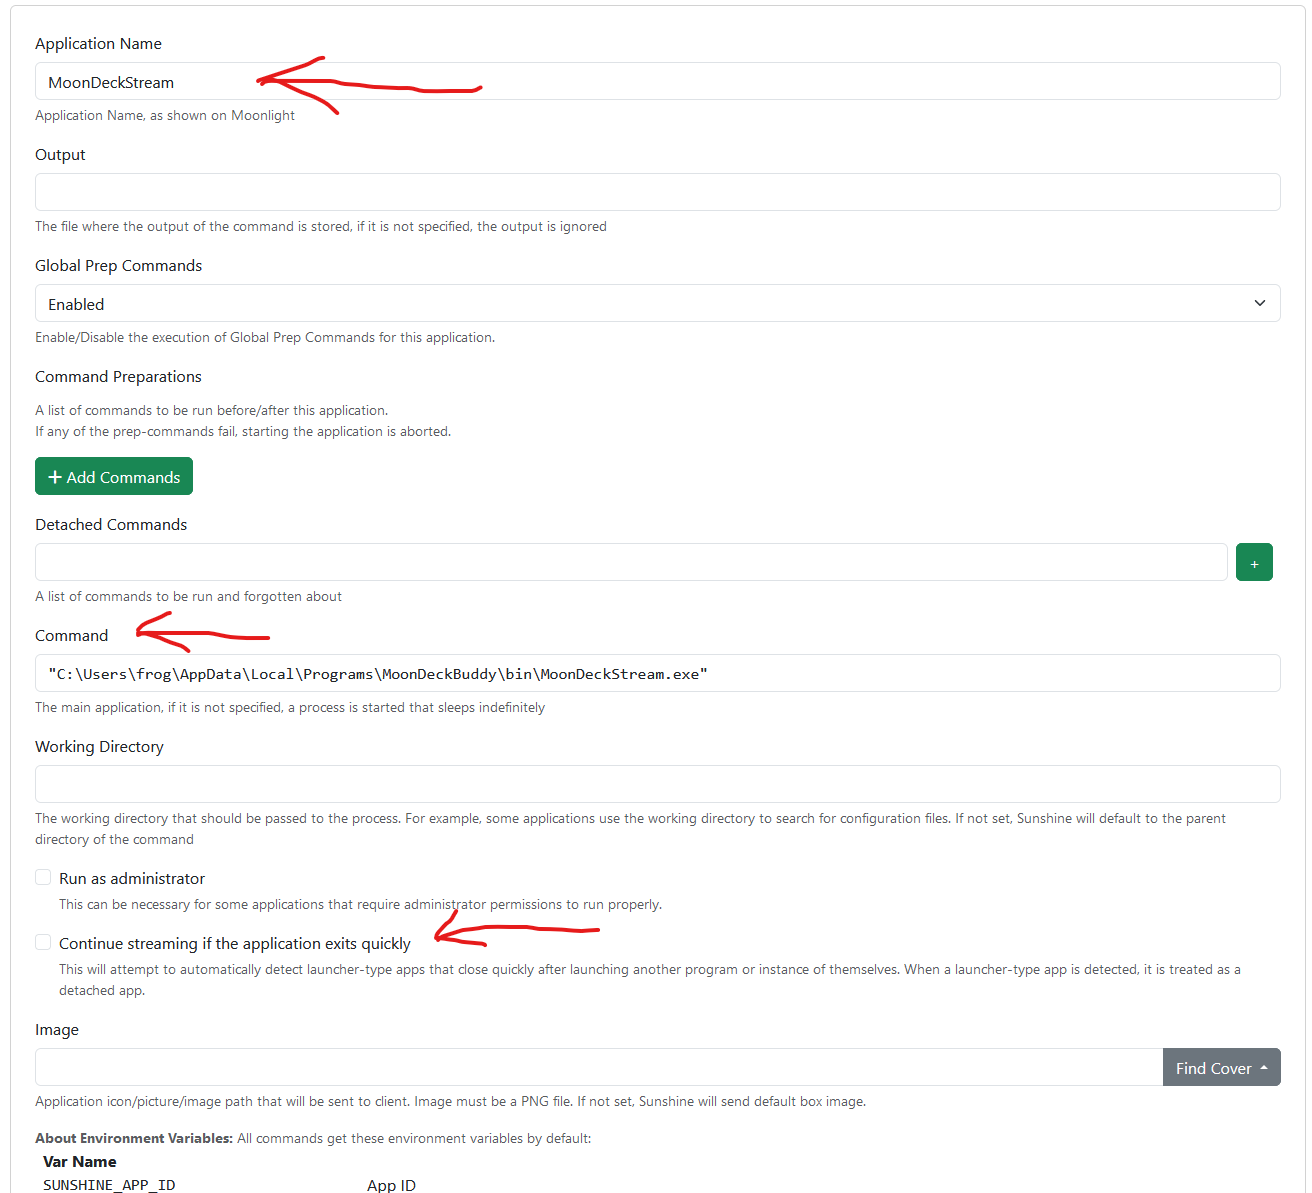
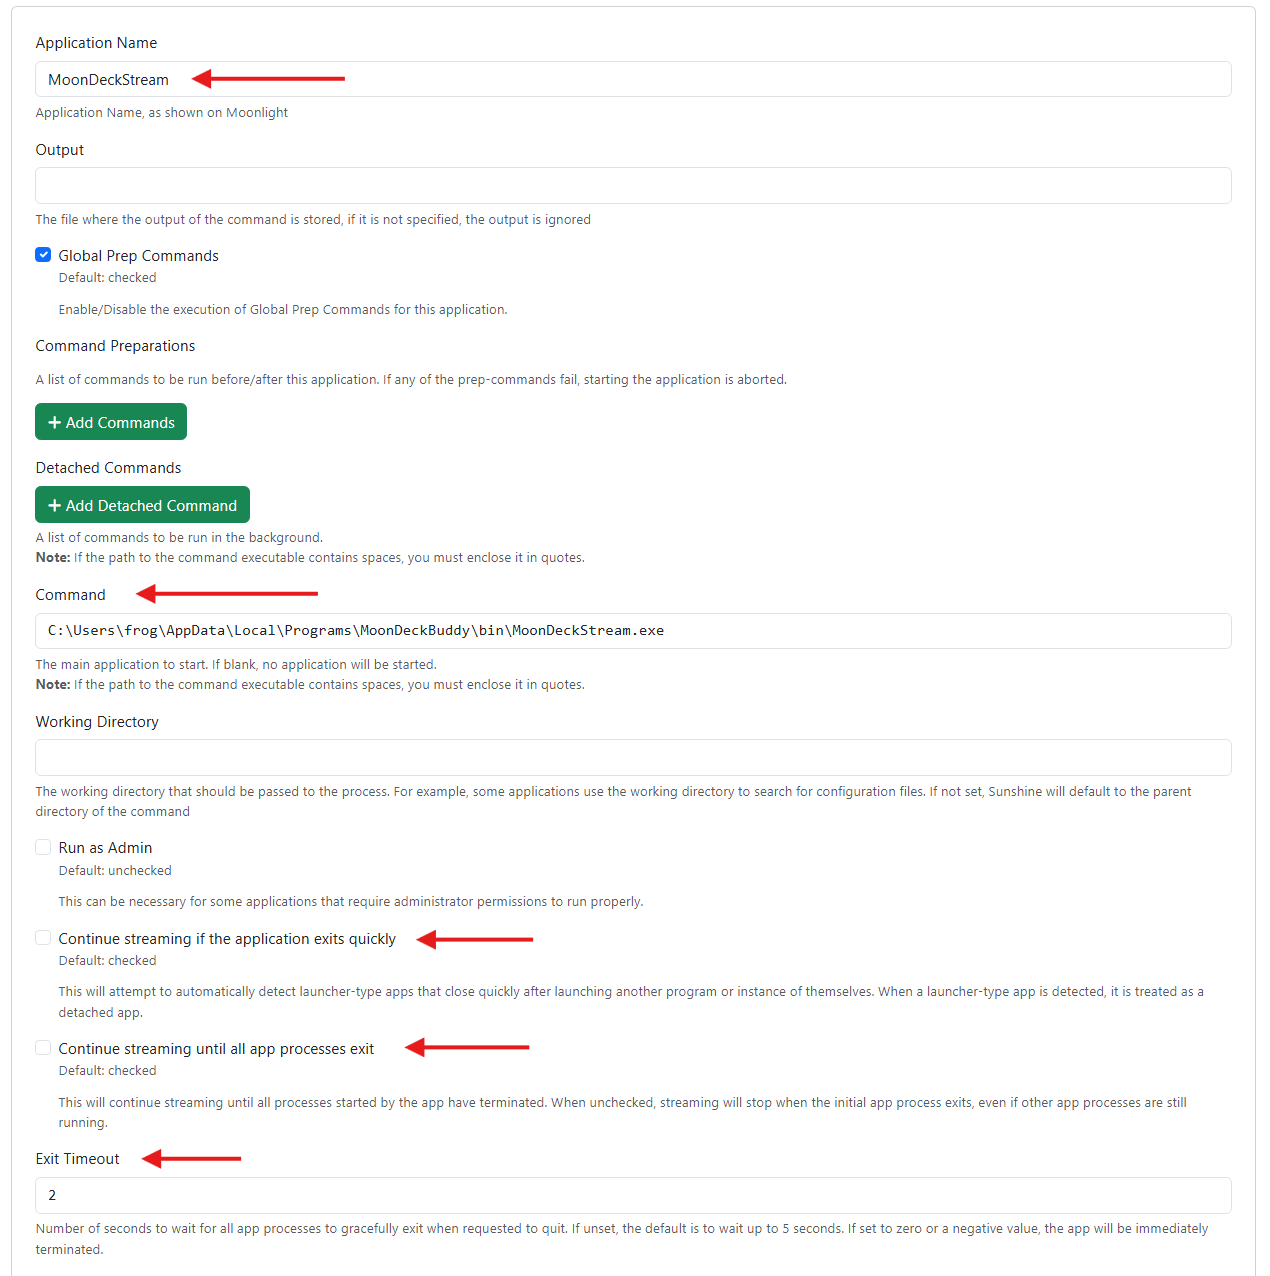
Add notes about proper exists and Sunshine timeouts

diff --git a/wiki/Troubleshooting.md b/wiki/Troubleshooting.md
@@ -35,6 +35,12 @@ If it still does not work, it could be one of the following:
 * If you have multiple host sharing very similar name where only difference is lower-case and upper-case letters, Moonlight might also select an incorrect one to start the stream with.
 * You still have Nvidia Gamestream enabled and the Moonlight tries to connect it instead of Sunshine.
 
+## [SteamDeck] I stopped the stream on my Deck, but Sunshine says it was only paused. Sunshine isn't running my Undo commands.
+
+To close the stream entirely, you must close the game on the host PC. This is as simple as clicking "Quit" in the menu of most games. After this, Sunshine will end your stream on its own. **Newer versions of Sunshine** will wait a few seconds to make sure the game closes properly before ending the stream. This wait period can be controlled via the [Exit Timeout field when setting up Sunshine](./Sunshine-setup). Sunshine only runs Undo commands when the stream has fully exited.
+
+**Note**: If you stop the stream without closing the game (via L1+R1+Select+Start or choosing "Exit Game" in the Steam menu), **Sunshine will merely pause the stream instead of ending it**. This also happens if you close the game and stop the stream before Sunshine does. To allow Sunshine to properly close the stream and run your commands, either wait for the timeout to happen, or lower the wait period in Sunshine's settings.
+
 ## [Windows + AMD CPU with iGPU] Game starts, but MoonDeck times out
 
 There is a bug for AMD CPUs with integrated graphics. See [#41](https://github.com/FrogTheFrog/moondeck-buddy/issues/41#issuecomment-1627467014) for more info.

diff --git a/wiki/Sunshine-setup.md b/wiki/Sunshine-setup.md
@@ -6,7 +6,9 @@ All you have to do is to add a new app with the following:
 * "**Command**" field set to the `MoonDeckStream` executable, using the installation folder created during Moondeck Buddy's setup.
   * On Windows, the default should be `<BuddyInstallDirectory>\bin\MoonDeckStream.exe` (replace `<BuddyInstallDirectory>` with the file path of where it is installed).
   * On Linux, it depends on the earlier setup, but it can be as simple as `/home/frog/Downloads/MoonDeckBuddy.AppImage --exec MoonDeckStream`.
-* "**Continue streaming...**" - just disable the checkbox.
+* "**Continue streaming...**" - just disable both checkboxes.
+* "**Exit Timeout**" - When you close the game on the host PC (via in-game menu or otherwise), Sunshine will wait a few seconds before ending the stream and running any "Undo" commands you may have setup. This field adjusts how long Sunshine will wait.
+  * Note, if you close MoonDeck before this timer is up (via L1+R1+Select+Start or choosing "Exit Game" in the Steam menu), **Sunshine will merely pause the stream instead of ending it**. This means any Undo commands will not run, and your display resolution may not revert. In such scenarios, simply open Moonlight on your Steam Deck and stop the stream. You can also restart Sunshine on the host PC.
 
 Bellow an example of the required settings using a non-standard installation path:
 
